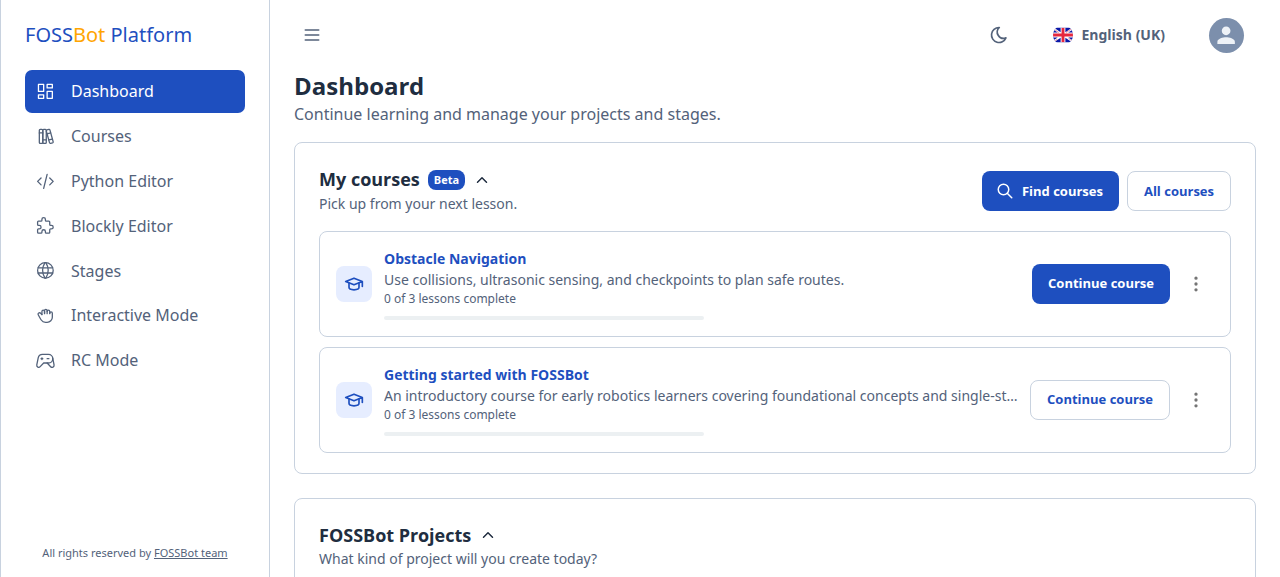
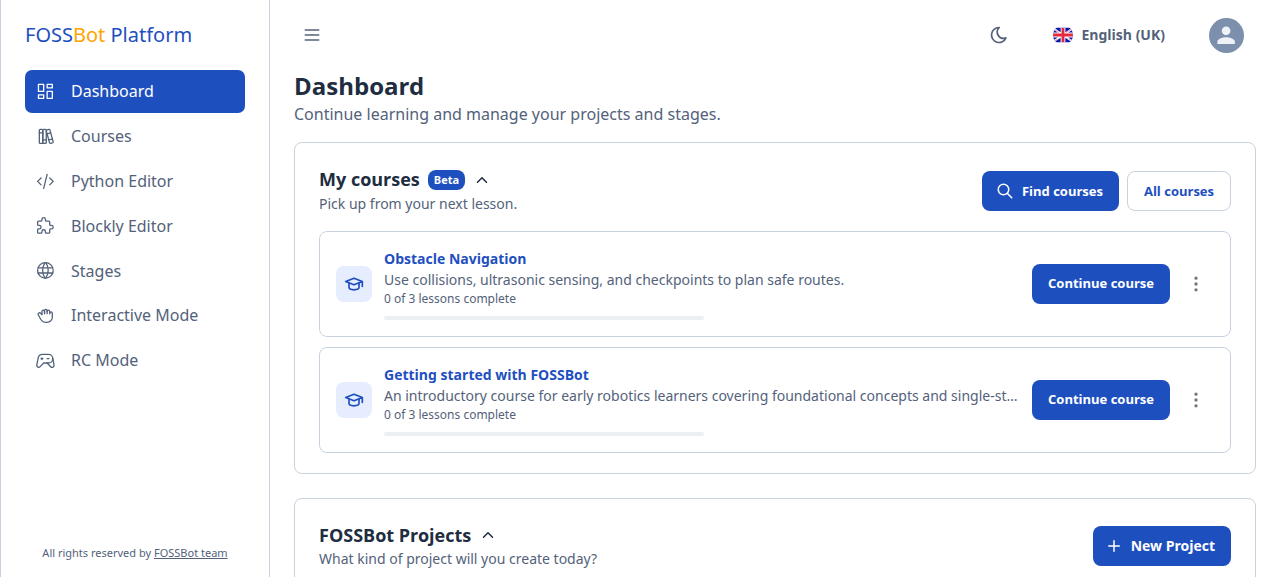
style(courses): use primary continue action on every dashboard course

Changed region(s): [[0.7812, 0.6551, 0.9375, 0.7487], [0.8438, 0.9047, 0.9688, 0.9983]]

diff --git a/front-end/src/components/dashboard/CoursesDashboardPanel.tsx b/front-end/src/components/dashboard/CoursesDashboardPanel.tsx
@@ -122,7 +122,7 @@ export default function CoursesDashboardPanel({ previewAppearance = true }: { pr
     </Stack>
   ) : (
     <Stack spacing={1.25}>
-      {visibleEnrollments.map((enrollment, index) => (
+      {visibleEnrollments.map((enrollment) => (
         <ListCard
           key={enrollment.id}
           surface="card"
@@ -132,7 +132,7 @@ export default function CoursesDashboardPanel({ previewAppearance = true }: { pr
           meta={t('education.student.progress', { completed: enrollment.completed_count, total: enrollment.lesson_count })}
           onOpen={() => navigate(`/courses/${enrollment.course_id}${isGuest ? `?enrollment=${enrollment.id}` : ''}`)}
           action={<Stack direction="row" spacing={1} alignItems="center">
-            <Button size="small" variant={index === 0 ? 'contained' : 'outlined'} onClick={() => navigate(enrollment.resume_lesson_key && !enrollment.completed_at ? `/courses/${enrollment.course_id}/learn/${enrollment.resume_lesson_key}${isGuest ? `?enrollment=${enrollment.id}` : ''}` : `/courses/${enrollment.course_id}${isGuest ? `?enrollment=${enrollment.id}` : ''}`)}>{enrollment.completed_at ? t('education.student.reviewCourse') : t('education.student.continueCourse')}</Button>
+            <Button size="small" variant="contained" onClick={() => navigate(enrollment.resume_lesson_key && !enrollment.completed_at ? `/courses/${enrollment.course_id}/learn/${enrollment.resume_lesson_key}${isGuest ? `?enrollment=${enrollment.id}` : ''}` : `/courses/${enrollment.course_id}${isGuest ? `?enrollment=${enrollment.id}` : ''}`)}>{enrollment.completed_at ? t('education.student.reviewCourse') : t('education.student.continueCourse')}</Button>
             <CourseActionsMenu label={t('education.courseList.actions')} actions={[
               { key: 'open', label: t('education.student.viewCourse'), onClick: () => navigate(`/courses/${enrollment.course_id}${isGuest ? `?enrollment=${enrollment.id}` : ''}`) },
               { key: 'progress', label: t('education.student.progressTitle'), onClick: () => navigate(`/courses/${enrollment.course_id}/progress${isGuest ? `?enrollment=${enrollment.id}` : ''}`) },
